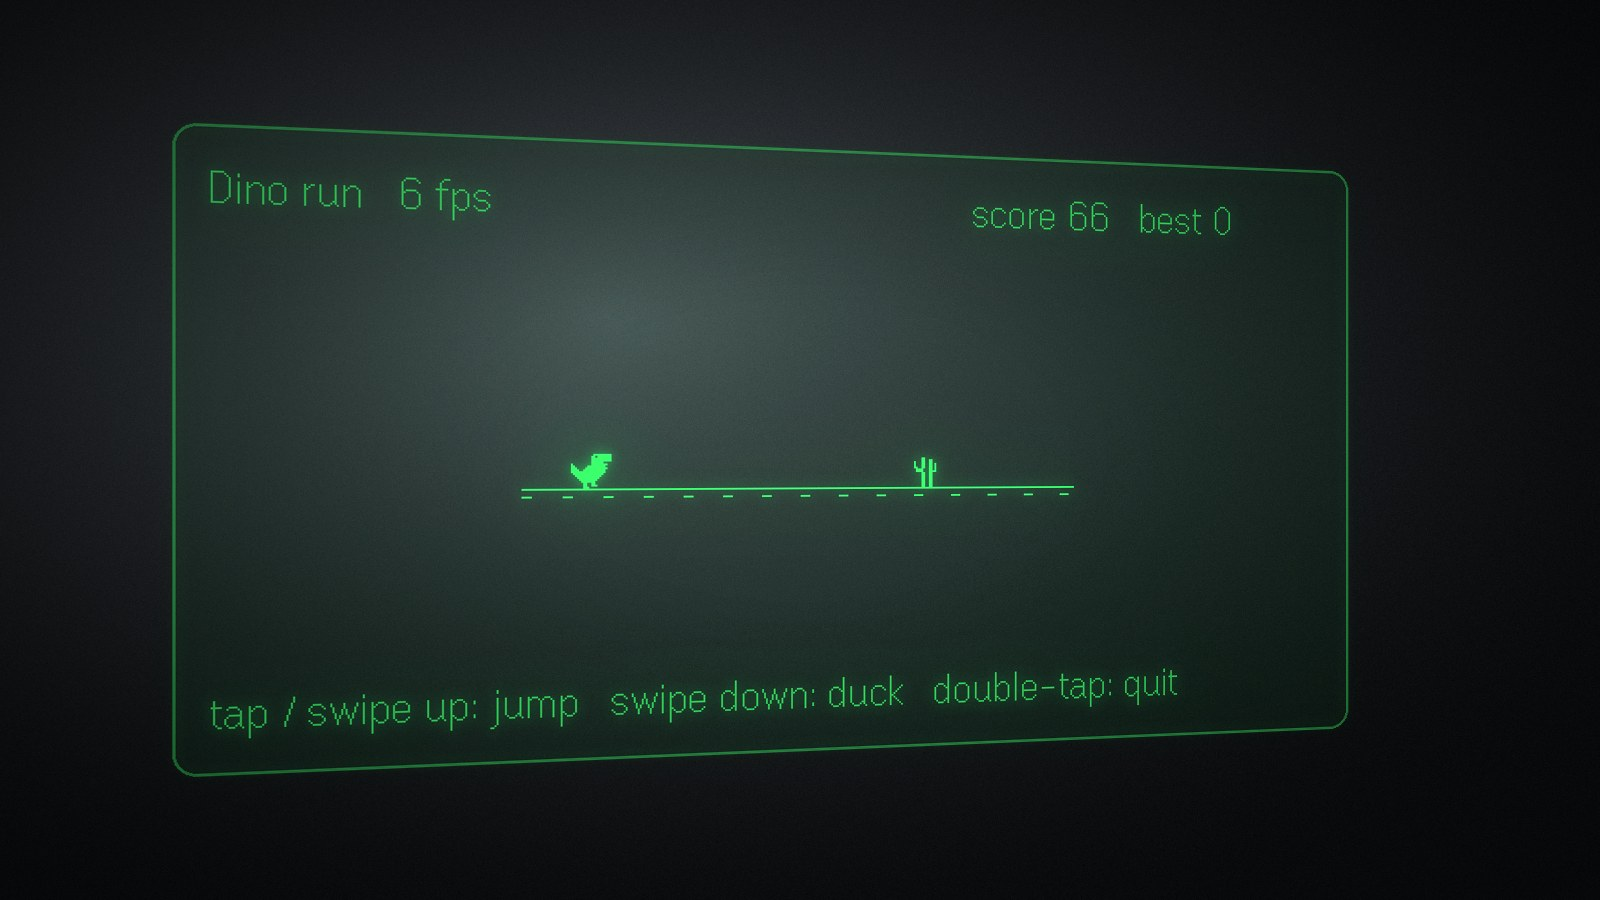
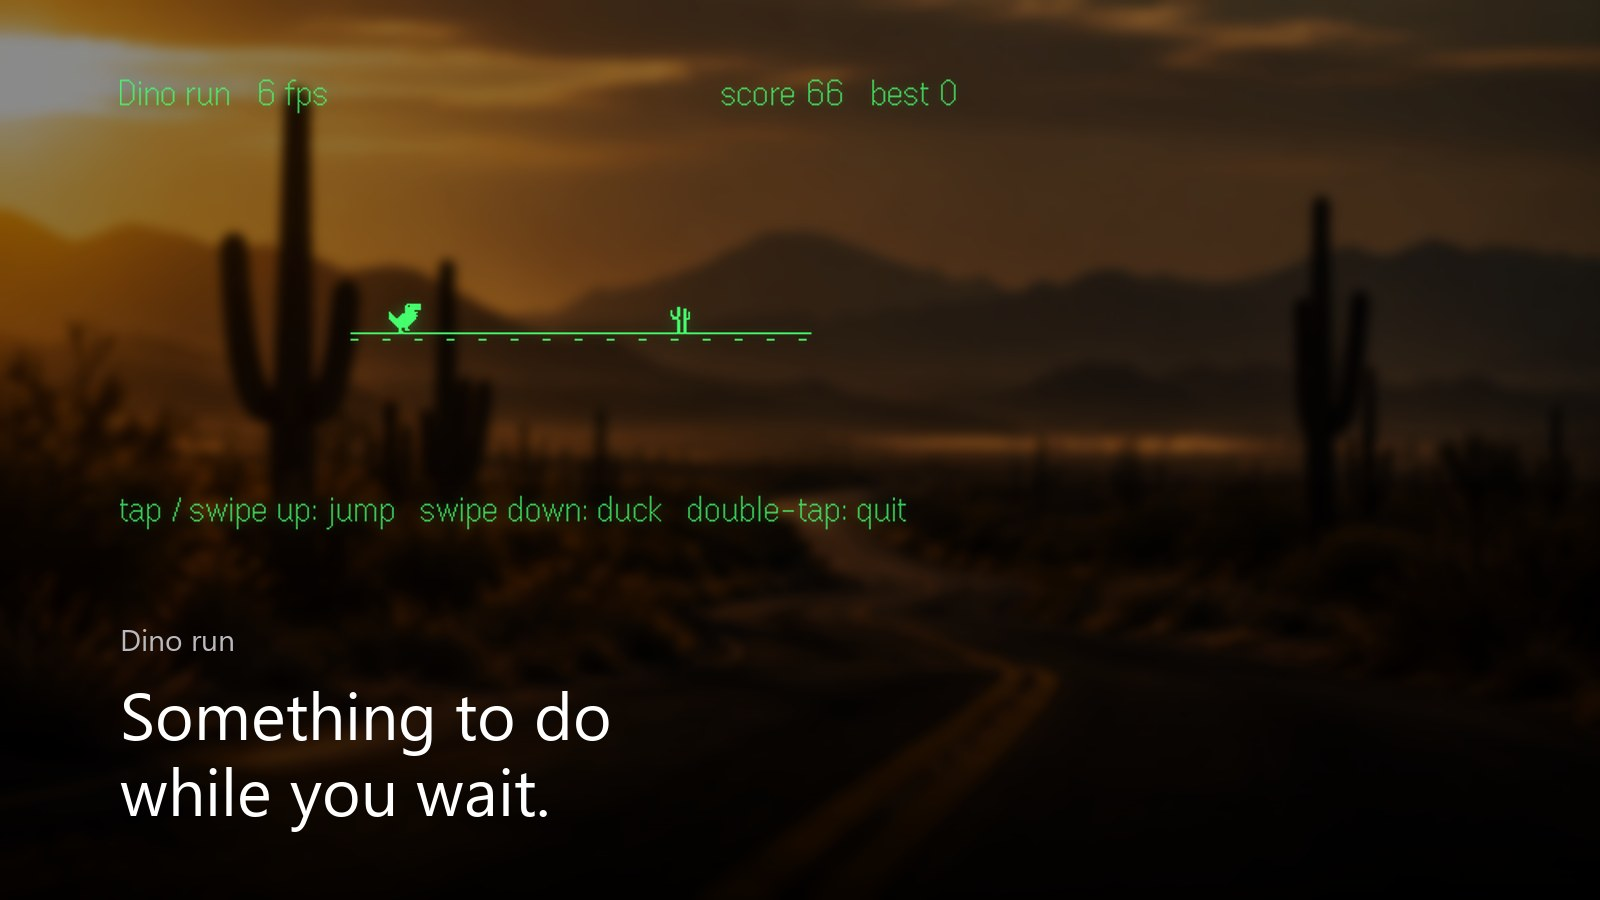
README: four store-style screenshots

diff --git a/README.md b/README.md
@@ -20,15 +20,9 @@ Welcome to the Wingman repository! This repository contains the glasses plugin a
 - Design: Pixel-accurate text wrapping that never overflows the 576x288 display, custom icons, and a single latest-wins display queue so the glasses never lag behind your input.
 
 ## Results
-  ![home](docs/screenshots/home.jpg)
-  ![briefing](docs/screenshots/briefing.jpg)
-  ![inbox](docs/screenshots/inbox.jpg)
+  ![meeting](docs/screenshots/meeting.jpg)
   ![email](docs/screenshots/email.jpg)
-  ![reply](docs/screenshots/reply.jpg)
-  ![draft](docs/screenshots/draft.jpg)
-  ![listening](docs/screenshots/listening.jpg)
-  ![invite](docs/screenshots/invite.jpg)
-  ![approve](docs/screenshots/approve.jpg)
+  ![files](docs/screenshots/files.jpg)
   ![dino](docs/screenshots/dino.jpg)
 
 
